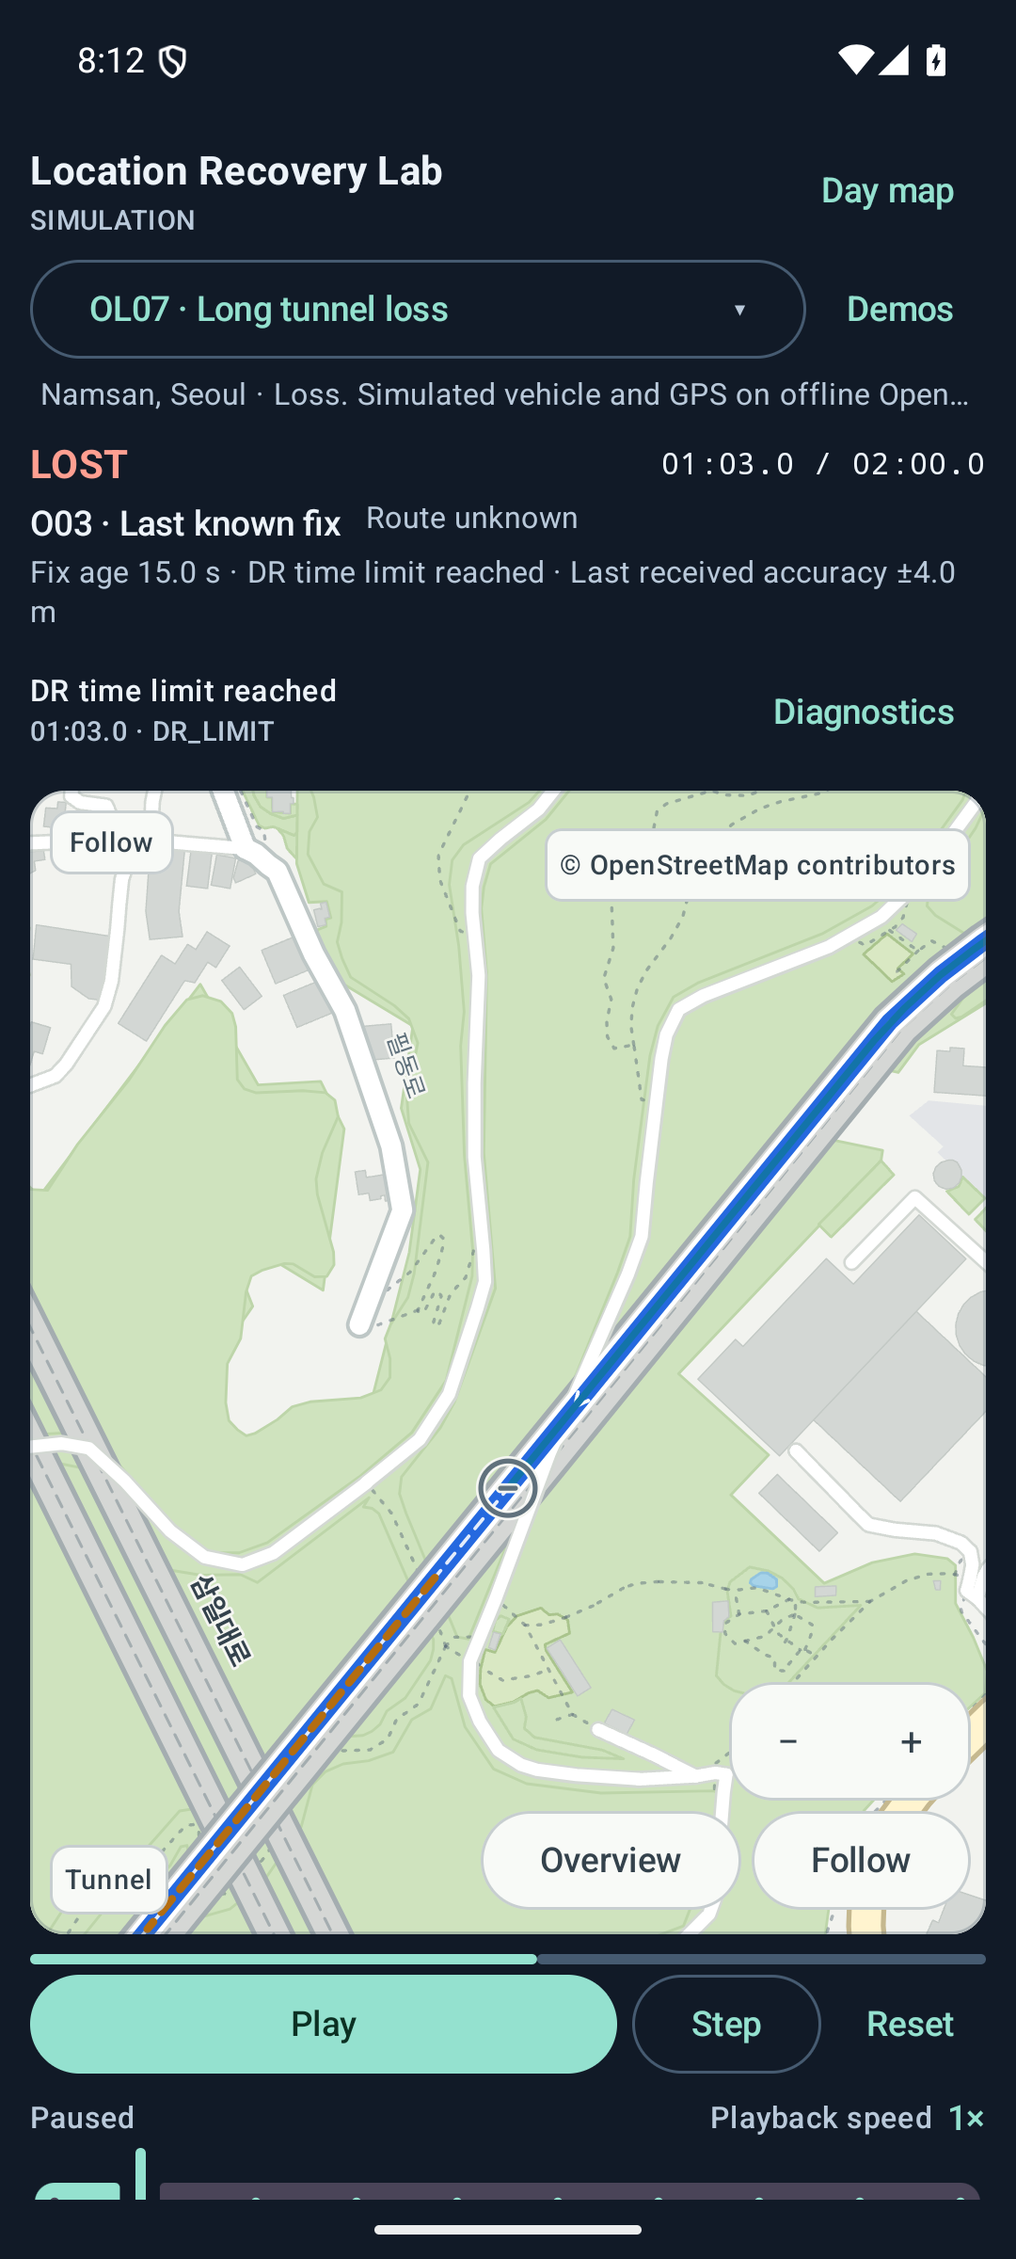
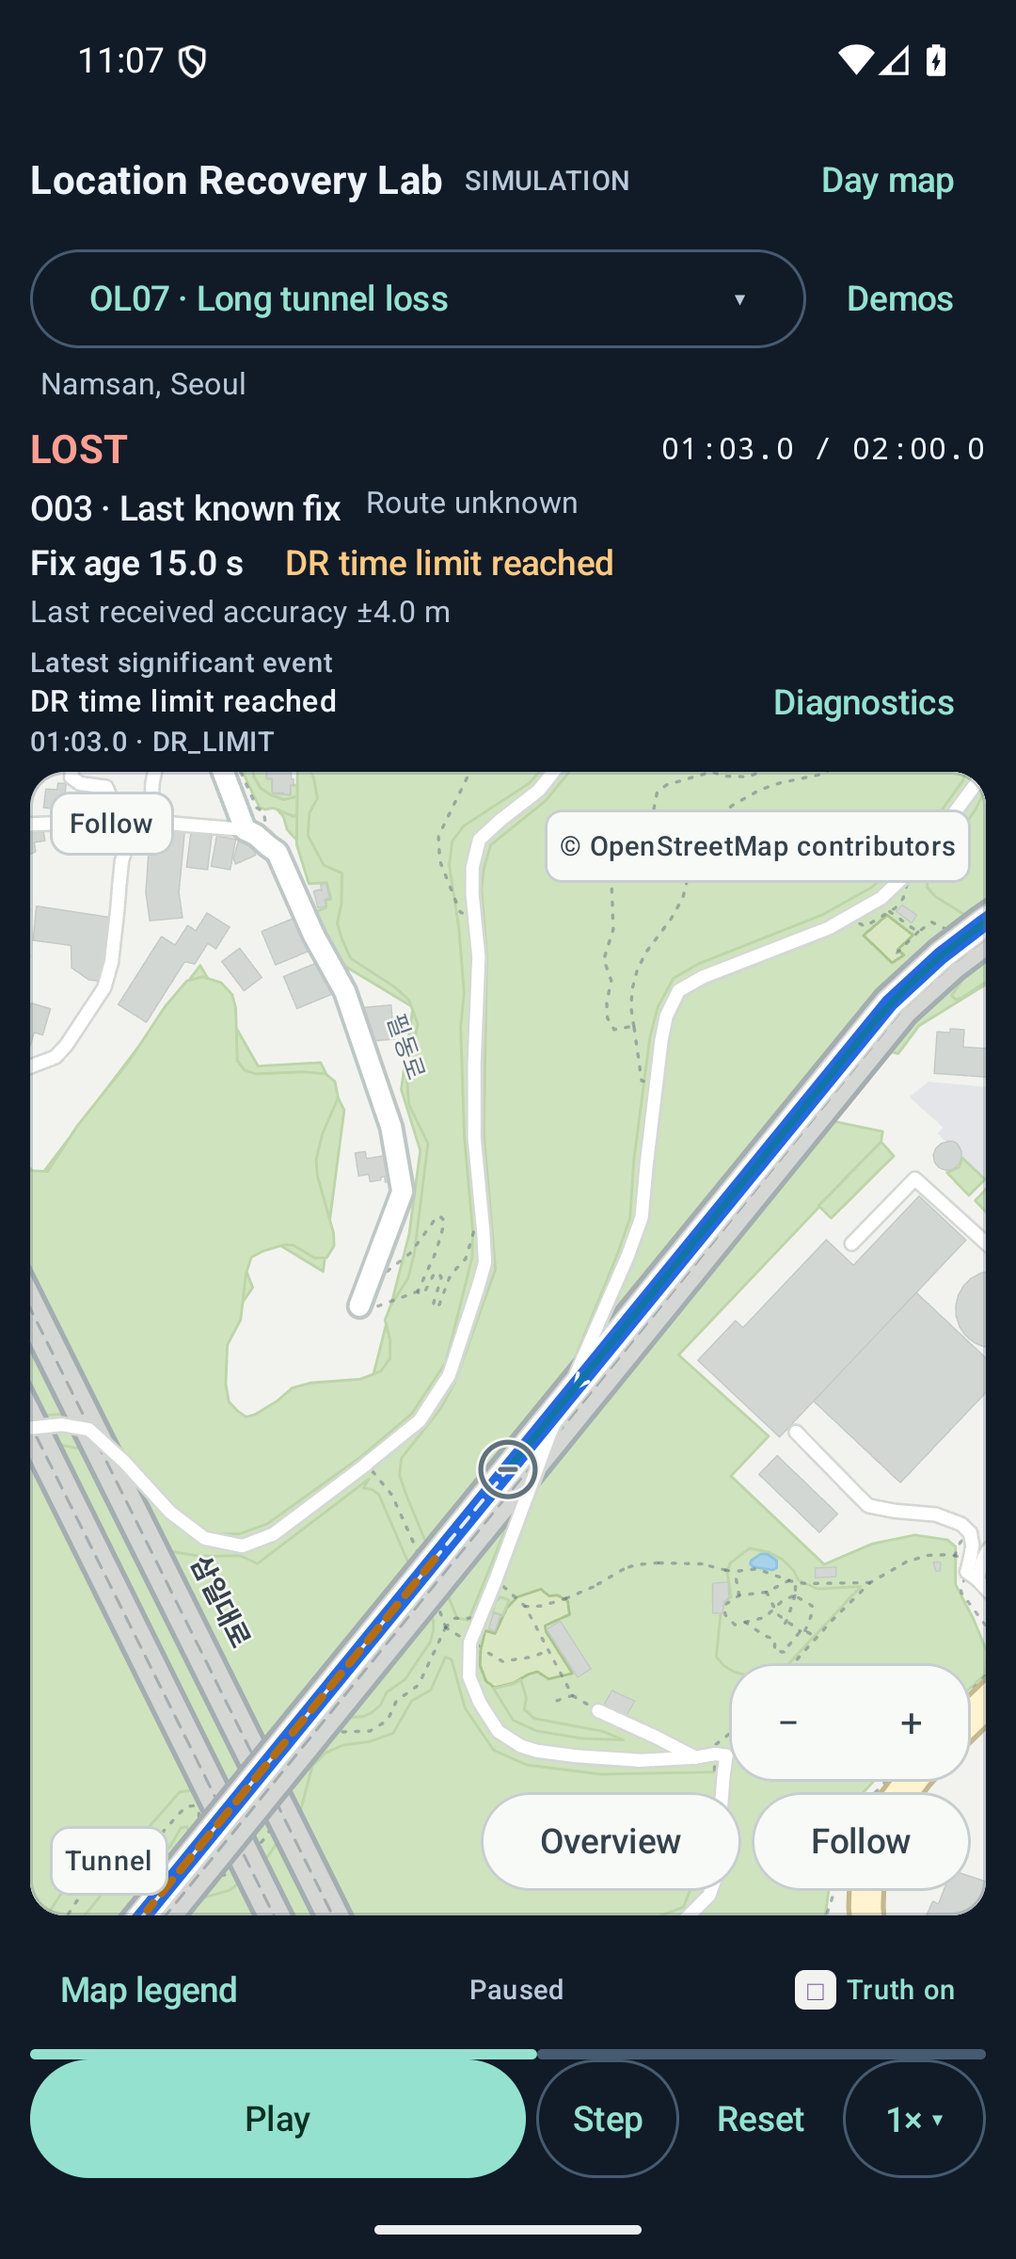
Publish the verified recovery walkthrough and record the PR 9 follow-up gates

diff --git a/README.md b/README.md
@@ -6,7 +6,7 @@ GPS 신호가 불안정하거나 끊기는 상황에서 위치 판단과 화면 
 
 외부 지도 SDK 없이 국내 OpenStreetMap 10개 지역을 오프라인으로 표시한다. 가상 주행, 실제 Android 위치 수신, HTTP 장애 실험을 독립 실행 환경으로 분리하여 동작을 재현하고 검증할 수 있다.
 
-[전체 아키텍처](docs/architecture.md) · [실기기 성능 분석](docs/rendering-memory-rca.md) · [장애 대응](docs/stability-investigation.md) · [검증 결과](docs/verification.md) · [전체 문서 안내](docs/index.md)
+[전체 아키텍처](docs/architecture.md) · [지도 전환 성능 조사](docs/recovery-ui-switch-rca.md) · [실기기 성능 이력](docs/rendering-memory-rca.md) · [장애 대응](docs/stability-investigation.md) · [검증 결과](docs/verification.md) · [전체 문서 안내](docs/index.md)
 
 <p align="center">
   <a href="docs/demo/recovery-ui/ol07-tracking.png"><img src="docs/demo/recovery-ui/ol07-tracking.png" width="220" alt="OL07 28초 정상 추적 및 도로 매칭 위치"></a>
@@ -15,7 +15,7 @@ GPS 신호가 불안정하거나 끊기는 상황에서 위치 판단과 화면 
 </p>
 <p align="center">남산 터널 OL07 · 정상 추적 28초 &nbsp; | &nbsp; DR 추정 54초 &nbsp; | &nbsp; 정상 복구 73초</p>
 
-기본 앱의 **대표 사례 → OL07 → 5× → 재생**으로 GPS 손실부터 재획득까지 확인할 수 있다. [OL07 시연 절차](docs/demo.md#ol07-시연) · [지도 갤러리](docs/osm-visual-verification.md) · [UI 검증 및 성능 비교](docs/recovery-ui-validation.md)
+기본 앱에서 **대표 사례(Demos) → OL07 → 배속 버튼 → 5× → 재생(Play)** 순으로 테스트한다. 63초에는 추정 상한에 도달해 마지막 확인 위치로 전환한다. [63초 추정 중단 화면](docs/demo/recovery-ui/ol07-last-known.png) · [OL07 시연 절차](docs/demo.md#ol07-시연) · [지도 갤러리](docs/osm-visual-verification.md) · [UI 검증 및 성능 비교](docs/recovery-ui-validation.md)
 
 ## 핵심 구현 및 검증 성과
 
@@ -24,7 +24,7 @@ GPS 신호가 불안정하거나 끊기는 상황에서 위치 판단과 화면 
 | GPS 이상치·신호 손실·경로 이탈 | Map Matching, 신호 상태기계, 최대 15초 Dead Reckoning, 연속 관측 기반 복구 | 가상 위치 평가 84개 및 로딩 오류 3개 통과 · [알고리즘](docs/algorithm.md) |
 | 복잡한 도로망의 위치 매칭 비용 | 원본 도로의 Spatial Grid와 결정적 후보 판정 | O10 관측당 처리 시간 중앙값 **42.30 → 7.73µs (81.7% 감소)**, 기존 판정 일치 · [성능](docs/refactor-performance.md#jvm-도로-매칭) |
 | Android 8 저메모리 환경 | Streaming JSON parsing, Software Canvas, viewport bitmap 재사용 | API 26·48MiB에서 OOM·OS 메모리 종료 수정, O10 기동 및 전환·재생·Live 각 20회 검증 · [장애 분석](docs/stability-investigation.md) |
-| 실제 위치 수신 및 자원 수명 | LocationManager, 위치 Foreground Service, 권한별 처리, 세션 토큰·제한 큐 | API 26·31·33·34·36 에뮬레이터 및 API 31 실기기 fresh GPS 수신·FGS/리스너 시작·해제 20회 · [Live](docs/live-location.md) |
+| 실제 위치 수신 및 자원 수명 | LocationManager, 위치 Foreground Service, 권한별 처리, 세션 토큰·제한 큐 | API 26·31·33·34·36 에뮬레이터 수명 검증. 과거 API 31 실기기에서 새 GPS 관측 수신 및 별도 FGS·리스너 시작·해제 20회 · [Live](docs/live-location.md) |
 | HTTP 요청 장애 및 응답 역전 | Timeout, bounded retry/backoff, 취소, 요청 generation 및 경로 version 확인 | 독립 JVM loopback HTTP 테스트 17개와 APK 격리 검사 · [네트워크](docs/network-reliability.md) |
 
 매칭 시간은 18,490개 방향성 에지를 가진 O10에서 JVM 7회 반복 측정한 값이다. 위치 평가는 재현 가능한 가상 관측의 판정 계약 검증이며 실제 주행 정확도 통계가 아니다. 실기기의 GPS 수신과 짧은 서비스 반복 시험은 별개다.
@@ -110,10 +110,11 @@ ANR·Crash는 진단용 하네스와 계측 환경의 재현 사례이며 상용
 | JVM·Android 단위 테스트 | UI 후보 83개 통과 |
 | 독립 위치 평가 | 합성·장시간·OSM·고난도 84개 및 로딩 오류 3개 통과 |
 | Android 플랫폼 계측 | API 26·31·33·34·36 에뮬레이터, 권한·서비스 생명주기 및 접근성 검증 |
-| 실기기 검증 | SM-G975N Android 12의 fresh GPS 수신, Live 20회 시작·해제, O10 1× 재생 30분 및 성능 측정 |
+| 실기기 검증 이력 | 2026-11-25–26의 SM-G975N Android 12에서 fresh GPS 수신, Live 20회 시작·해제, O10 1× 재생 30분 및 성능을 측정했다. [빌드별 범위](docs/physical-device-validation.md) |
+| 현재 UI 후보의 실기기 | 연결된 단말이 없어 성능·메모리 내구·GPS는 BLOCKED다. [현재 검증](docs/recovery-ui-validation.md) |
 | GitHub Actions | 모듈 경계·단위 테스트·Lint·Debug/unsigned Release APK·fixture·평가와 API 36 Live 계측 |
 
-[구현 기준 CI (main 73f728f)](https://github.com/CodingBot000/AndroidLocaltionRecovery/actions/runs/45677049357) · [현재 Actions](https://github.com/CodingBot000/AndroidLocaltionRecovery/actions) · [검증 이력 및 재현 명령](docs/verification.md)
+[UI 후보 PR 검사](https://github.com/CodingBot000/AndroidLocaltionRecovery/pull/9/checks) · [기존 main 73f728f 검사 이력](https://github.com/CodingBot000/AndroidLocaltionRecovery/actions/runs/45677049357) · [검증 이력 및 재현 명령](docs/verification.md)
 
 ## 기술 스택
 

diff --git a/docs/verification.md b/docs/verification.md
@@ -4,18 +4,19 @@
 
 ## 최신 구현 검증 요약
 
-2026-11-26의 UI 작업 기준은 `a732af2`다. 해당 main의 CI가 통과했다. UI 후보의 로컬 검증은 아래 표와 별도 보고서에 기록했다. [기준선 CI](https://github.com/CodingBot000/AndroidLocaltionRecovery/actions/runs/45790812053) · [UI 검증](recovery-ui-validation.md) · [최신 Actions](https://github.com/CodingBot000/AndroidLocaltionRecovery/actions)
+2026-11-26 UI 후속 검증은 main `a732af2`와 최종 UI 제품 `ce617de`를 비교한다. 최종 커밋의 원격 검사 상태는 PR에서 확인할 수 있다. [기준선 CI](https://github.com/CodingBot000/AndroidLocaltionRecovery/actions/runs/45790812053) · [PR #9 검사](https://github.com/CodingBot000/AndroidLocaltionRecovery/pull/9/checks) · [UI 검증](recovery-ui-validation.md)
 
 | 검사 | 확인한 결과 | 상세 근거 |
 |---|---|---|
-| 단위 테스트 | UI 후보 JVM·Android 83개 통과 | [UI 검증](recovery-ui-validation.md#phase-8--회귀-및-실행-검증) |
+| 단위 테스트 | UI 후보 JVM·Android 83개 통과 | [UI 검증](recovery-ui-validation.md#f4--성능과-기능-회귀) |
 | 위치 평가 | 합성·장시간·OSM·고난도 84개와 로딩 오류 3개 통과 | [기본 합성](evaluation-report.md) · [장시간](extended-evaluation-report.md) · [OSM](osm-evaluation-report.md) · [독립 평가](osm-challenge-report.md) |
-| 빌드·Lint·APK | UI 후보의 권한·asset·HTTP 및 Debug 하네스 격리 검사 통과 | [UI 검증](recovery-ui-validation.md#phase-8--회귀-및-실행-검증) |
+| 빌드·Lint·APK | UI 후보의 권한·asset·HTTP 및 Debug 하네스 격리 검사 통과 | [UI 검증](recovery-ui-validation.md#f4--성능과-기능-회귀) |
 | UI 접근성·실행 | API 36 TalkBack, 320×640·글꼴 130% 한국어, 실제 OL07·OL02·OL10·OL13 | [UI 검증](recovery-ui-validation.md) |
 | Live 계측 | API 26·31·33·34·36 에뮬레이터; 원격 API 36 | [Live](live-location.md) · [CI 장애 RCA](compose-slot-table-rca.md) |
 | 저메모리 회귀 | API 26·48MiB O10 기동 및 전환·재생·Live 반복 통과 | [저메모리 상세](#api-26-48mib-o10-수정-재검증) |
-| 실기기 Live | API 31 실내 fresh GPS 수신, FGS·listener 해제 20회 | [실기기 GPS](real-device-final-validation.md) |
-| UI 후보 성능 | 동일 API 36 에뮬레이터 기준·후보 시나리오별 9회. 지도 준비 대기의 회귀 신호는 조사 중이며 실기기 검증은 BLOCKED | [UI 성능 비교](recovery-ui-validation.md#최종-후보-성능-비교) |
+| 현재 UI 후보 실기기 | 단말 미연결로 성능·내구·GPS **BLOCKED** | [실기기 검증 범위](physical-device-validation.md) |
+| 과거 실기기 Live | `d0b3822`에서 API 31 실내 fresh GPS 및 별도 FGS·listener 해제 20회 | [2026-11-25 검증](real-device-final-validation.md) |
+| UI 후보 성능 | API 36 A/C 시나리오별 9회. 첫 present 지연 미재현, 전환 Overrun P95 임계값 초과로 **INCONCLUSIVE** | [최종 성능 및 재시험](recovery-ui-switch-rca.md#f4--최종-제품-성능) |
 | 과거 실기기 성능·내구 | 기준선 및 렌더러 후보 시나리오별 9회, O10 180초 × 10회씩. 렌더러 후보 기각 | [실기기 렌더링 A/B](rendering-memory-rca.md) |
 
 CI는 JVM·Android 빌드/테스트 및 API 36 Live 계측을 실행한다. 물리 단말 Macrobenchmark·내구·GPS 시험은 로컬 별도 실행이며 CI 통과가 실기기 성능 검증을 의미하지 않는다. 과거 GPS 무수신 원인과 반복 PSS 증가 기전은 미확정이다. 측정 환경별 한계와 실패·재실행은 상세 보고서에 보존한다.

diff --git a/docs/demo.md b/docs/demo.md
@@ -5,15 +5,15 @@
 ## OL07 시연
 
 1. 기본 앱의 **대표 사례** 또는 **Demos**에서 **OL07**을 고른다.
-2. 배속을 **5×**로 설정하고 **재생**을 누른다. 120초의 가상 주행은 명목상 약 24초이며, 실제 실행 시간은 기기와 처리 지연에 따라 달라진다.
-3. 상태 경계를 자세히 보려면 **일시정지**와 **Step**을 사용한다. **진단 보기**에서 원래 판정 코드를, 완료 후 **결과**에서 해당 가상 주행의 평가를 확인한다.
+2. 지도 아래의 **1× ▾**를 눌러 **5×**를 고른 뒤 **재생**을 누른다. 120초의 가상 주행은 명목상 약 24초이며, 실제 실행 시간은 기기와 처리 지연에 따라 달라진다.
+3. 상태 경계를 자세히 보려면 **일시정지**와 **Step**을 사용한다. **지도 범례**에서 위치 출처별 표식을 확인하고 **진단 보기**에서 판정 로그를 읽는다. 완료 후 **결과**에서 해당 가상 주행의 평가를 확인한다.
 
 | 관측한 가상 시각 | 화면과 실제 판정 |
 |---:|---|
 | 28초 | 정상 추적과 지도 매칭 위치. [실행 화면](demo/recovery-ui/ol07-tracking.png) |
-| 54초 | GPS 손실, 경로 기반 DR 추정과 추정 상한. [실행 화면](demo/recovery-ui/ol07-estimating.png) |
+| 54초 | GPS 손실과 경로 기반 DR. 마지막 Fix 이후 6초, 추정 상한까지 9초. [실행 화면](demo/recovery-ui/ol07-estimating.png) |
 | 63초 | `DR_LIMIT`로 추정을 멈추고 마지막 확인 위치를 표시. [실행 화면](demo/recovery-ui/ol07-last-known.png) |
-| 71초 | 재획득 후보를 확인하는 중. |
+| 71초 | 재획득 후보를 확인하는 중. [실행 화면](demo/recovery-ui/ol07-recovering.png) |
 | 73초 | `SIGNAL_RECOVERED`와 정상 추적 복귀. [실행 화면](demo/recovery-ui/ol07-recovered.png) |
 | 120초 | 주행 완료. 매칭 정확도·커버리지의 분모와 해당 실행의 복구 지연을 표시. [결과 화면](demo/recovery-ui/ol07-complete-results.png) |
 
@@ -30,7 +30,7 @@
 | OL10 | 삼성동 평행도로의 모호한 매칭 · [첫 관측](demo/recovery-ui/ol10-ambiguous.png) |
 | OL13 | 수서 나들목의 [이탈 및 재탐색 권고 44초](demo/recovery-ui/ol13-departure.png)와 [복귀 67초](demo/recovery-ui/ol13-return.png) |
 
-Follow, Overview, Free 및 재생·일시정지·Step·Reset·배속 조작을 지원한다. [지도 갤러리](osm-visual-verification.md) · [캡처 환경과 실제 판정](recovery-ui-validation.md#phase-9--대표-화면과-문서)
+Follow, Overview, Free 및 재생·일시정지·Step·Reset·배속 조작을 지원한다. [지도 갤러리](osm-visual-verification.md) · [최종 캡처 환경과 실제 판정](recovery-ui-validation.md#f6--실제-화면과-문서)
 
 ## 합성 DEMO_LONG 재현 (기존 회귀)
 

diff --git a/docs/physical-device-validation.md b/docs/physical-device-validation.md
@@ -2,12 +2,16 @@
 
 [README](../README.md) · [통합 검증](verification.md) · [성능](refactor-performance.md)
 
-## 최신 확인 범위 (2026-11-26)
+## PR #9 후속 후보 (2026-11-26)
+
+제품 코드 `ce617de`의 실기기 Macrobenchmark, O10 180초×10회 A/C 내구·PSS, 지도 전환·재생 및 Live 20회, 실제 GPS는 단말 미연결로 **BLOCKED**다. 해당 단말의 설정 변경이나 위치 시험은 없었다. [UI 후보 검증과 게이트](recovery-ui-validation.md)
+
+## 기존 확인 범위 (2026-11-25–26)
 
 | 환경 | 확인한 검증 | 결과·근거 |
 |---|---|---|
-| SM-G975N · Android 12 / API 31 | 실내 fresh GPS 수신, 직접 provider 대조, FGS·listener 시작·정지 20회 | 수신 및 해제 확인; 이전 120초 무수신 원인은 미확정 · [실기기 GPS](real-device-final-validation.md) |
-| 같은 실기기 | O10 콜드 기동, 지도 전환, 주행·카메라 Macrobenchmark | 기준 A 및 후보 B 시나리오별 9회; 후보 기각 · [성능 RCA](rendering-memory-rca.md) |
+| SM-G975N · Android 12 / API 31 | 실내 fresh GPS 수신, 직접 provider 대조, FGS·listener 시작·정지 20회 | `d0b3822` 제품에서 수신 및 해제 확인. 이전 120초 무수신 원인은 미확정 · [실기기 GPS](real-device-final-validation.md) |
+| 같은 실기기 | O10 콜드 기동, 지도 전환, 주행·카메라 Macrobenchmark | 기준 `a067a97` 및 당시 후보 시나리오별 9회. 그 후보는 기각했다. [성능 RCA](rendering-memory-rca.md) |
 | 같은 실기기 | O10 1× 180초 × 10회, 지도 전환·재생 및 Live 각각 20회 | A/B 각각 통과; 반복 PSS 증가 원인은 미확정 · [메모리·Live](rendering-memory-rca.md) |
 | API 26·31·33·34·36 에뮬레이터 | 위치 권한·서비스 생명주기·오프라인 계측, API 26·48MiB | 환경별 결과는 [통합 검증](verification.md) 참조 |
 | SM-S908N · Android 16 / API 36 | 이전 합성 지도 버전의 기동·프레임·내구 계측 | 아래 과거 측정 이력; 최신 OSM 버전과 직접 비교하지 않음 |

diff --git a/docs/architecture.md b/docs/architecture.md
@@ -83,6 +83,7 @@ flowchart LR
 - 재생 deadline은 단조 시계와 하나의 가상 시간 기준점에서 계산한다. Pause는 가상 진행량을 동결하고 배속 변경은 변경 시각까지 진행된 양을 반영한다. 지연 발생 시 최대 12개 가상 시각을 한 차례 처리한 뒤 다음 명령을 받을 수 있다. 256칸 입력 큐가 가득 차면 화면에 재시도 상태를 표시한다.
 - 화면 로그는 500건, 표시 이력은 출처별 1,000개다. 이력은 추정 시작·중단, 위치 거부·재정합, 출처 변경에서 끊긴다. 세션 전환은 이전 timer generation과 실행 ID를 무효화한다. 세로 Activity 재생성은 같은 ViewModel을 사용하고, 제거 시 컨트롤러 scope를 취소한다. 기존 백그라운드 동작에 따라 ViewModel 생존 동안 재생을 이어간다.
 - `DriveHud`는 엔진 snapshot과 `ReplaySession`에 전달된 동일 설정으로 Fix 경과, 활성 DR 상한과 재획득 분모를 읽는다. 주요 판정 요약은 현재 실행의 제한된 로그에서 한 건을 선택한다. `RunResults`는 완료한 실행의 `Evaluation` 분모와 paired 오차를 사용한다. 지도 마커와 범례는 `ui:map`의 `MapSymbol` 색상을 공유한다. [표시와 검증 근거](recovery-ui-validation.md)
+- 배속 대화상자의 슬라이더와 5× 바로 선택은 같은 `PlaybackSpeeds` 범위와 `UiIntent.Speed`를 사용한다. 범례 창은 현재 지도 테마를 읽고 Truth 토글은 기존 세션 화면 상태를 사용한다. [실행과 조작](demo.md#ol07-시연)
 
 ## 지도
 

diff --git a/docs/live-location.md b/docs/live-location.md
@@ -21,7 +21,7 @@ stateDiagram-v2
 
 Home·화면 잠금·Activity 재생성 중 서비스가 세션을 유지한다. 시스템 종료 후 자동 재시작하지 않고 다음 실행에서 중단을 알린다.
 
-**검증 범위:** API 26·31·33·34·36 에뮬레이터의 서비스 lifecycle 및 권한 흐름, API 31 SM-G975N의 실내 fresh GPS 수신과 직접 GPS 대조, FGS·listener 시작·정지 20회를 확인했다. 실제 수신 시험과 짧은 시작·종료 반복은 별개다. 과거 120초 무수신의 원인은 미확정이며, 화면 OFF 수신 편차와 실제 주행 범위는 실기기 기록을 기준으로 해석한다. [실기기 GPS 검증](real-device-final-validation.md) · [후속 Live 자원 해제](rendering-memory-rca.md#실기기-live-반복)
+UI 후보 `ce617de`의 Live 검증 범위는 UI 후속 기록에 있다. 새 후보의 실기기 GPS는 단말 미연결로 BLOCKED다. 2026-11-25의 제품 기준 `d0b3822`에서 API 31 SM-G975N의 실내 fresh GPS 수신, 직접 GPS 대조와 별도 FGS·listener 시작·정지 20회를 확인했다. 당시 120초 무수신과 화면 OFF 수신 편차는 별도 검증 이력에 기록했다. [현재 Live 검증](recovery-ui-validation.md) · [과거 실기기 GPS](real-device-final-validation.md) · [과거 자원 해제](rendering-memory-rca.md#실기기-live-반복)
 
 ## 실행 방법
 

diff --git a/docs/osm-visual-verification.md b/docs/osm-visual-verification.md
@@ -4,7 +4,7 @@
 
 ## 성능 리팩터링 단계의 지도 화면
 
-이 갤러리는 위치 복구 UI 개편 전에 확인한 지도 표현과 축척을 설명한다. 현재 UI의 정상 추적·추정·복구 화면은 OL07 시연에서 확인할 수 있다. [OL07 실행 화면](demo.md#ol07-시연)
+이 갤러리는 위치 복구 UI 개편 전에 확인한 지도 표현과 축척을 설명한다. 최종 UI 후보 `ce617de`의 정상 추적·추정·중단·재획득·복구 및 지도 범례는 별도 시연에서 확인할 수 있다. [OL07 실행 화면](demo.md#ol07-시연)
 
 <p align="center">
   <a href="demo/refactor/O10-mid.png"><img src="demo/refactor/O10-mid.png" width="210" alt="성수동 O10 Mid"></a>

diff --git a/docs/index.md b/docs/index.md
@@ -23,6 +23,7 @@
 | [OSM 화면 검수](osm-visual-verification.md) | 국내 10개 지역과 Follow·Mid·Overview 화면 |
 | [데모](demo.md) | 앱에서 장애·복구·지도 제어를 확인하는 방법 |
 | [위치 복구 UI 검증](recovery-ui-validation.md) | 실제 OL07 화면, 접근성·OS 회귀 및 에뮬레이터 성능 비교 |
+| [지도 전환 성능 조사](recovery-ui-switch-rca.md) | 앱 내부 준비, 실제 첫 프레임, 접근성 관측 및 최종 비교 |
 | [데이터 출처·라이선스](../data/osm/README.md) | OpenStreetMap/ODbL 표기 및 출처 |
 
 ## 정량 평가
